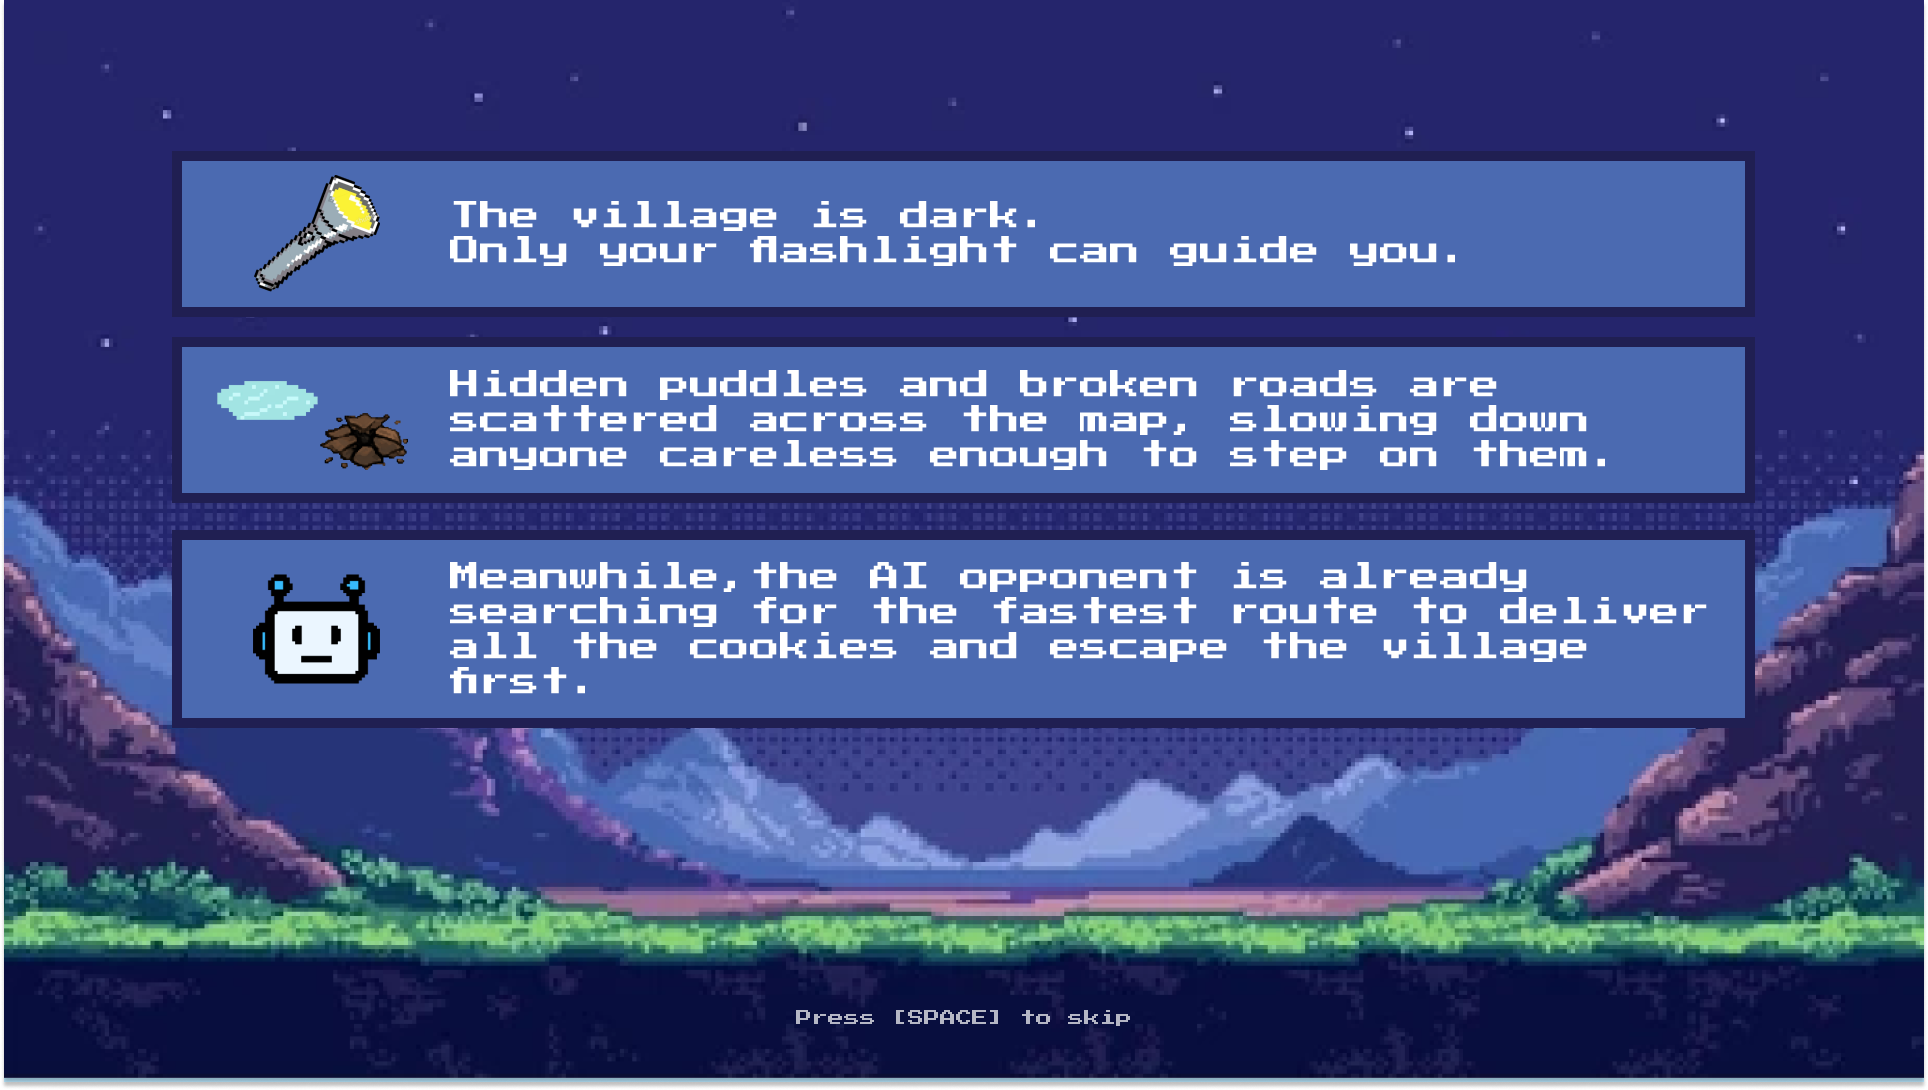
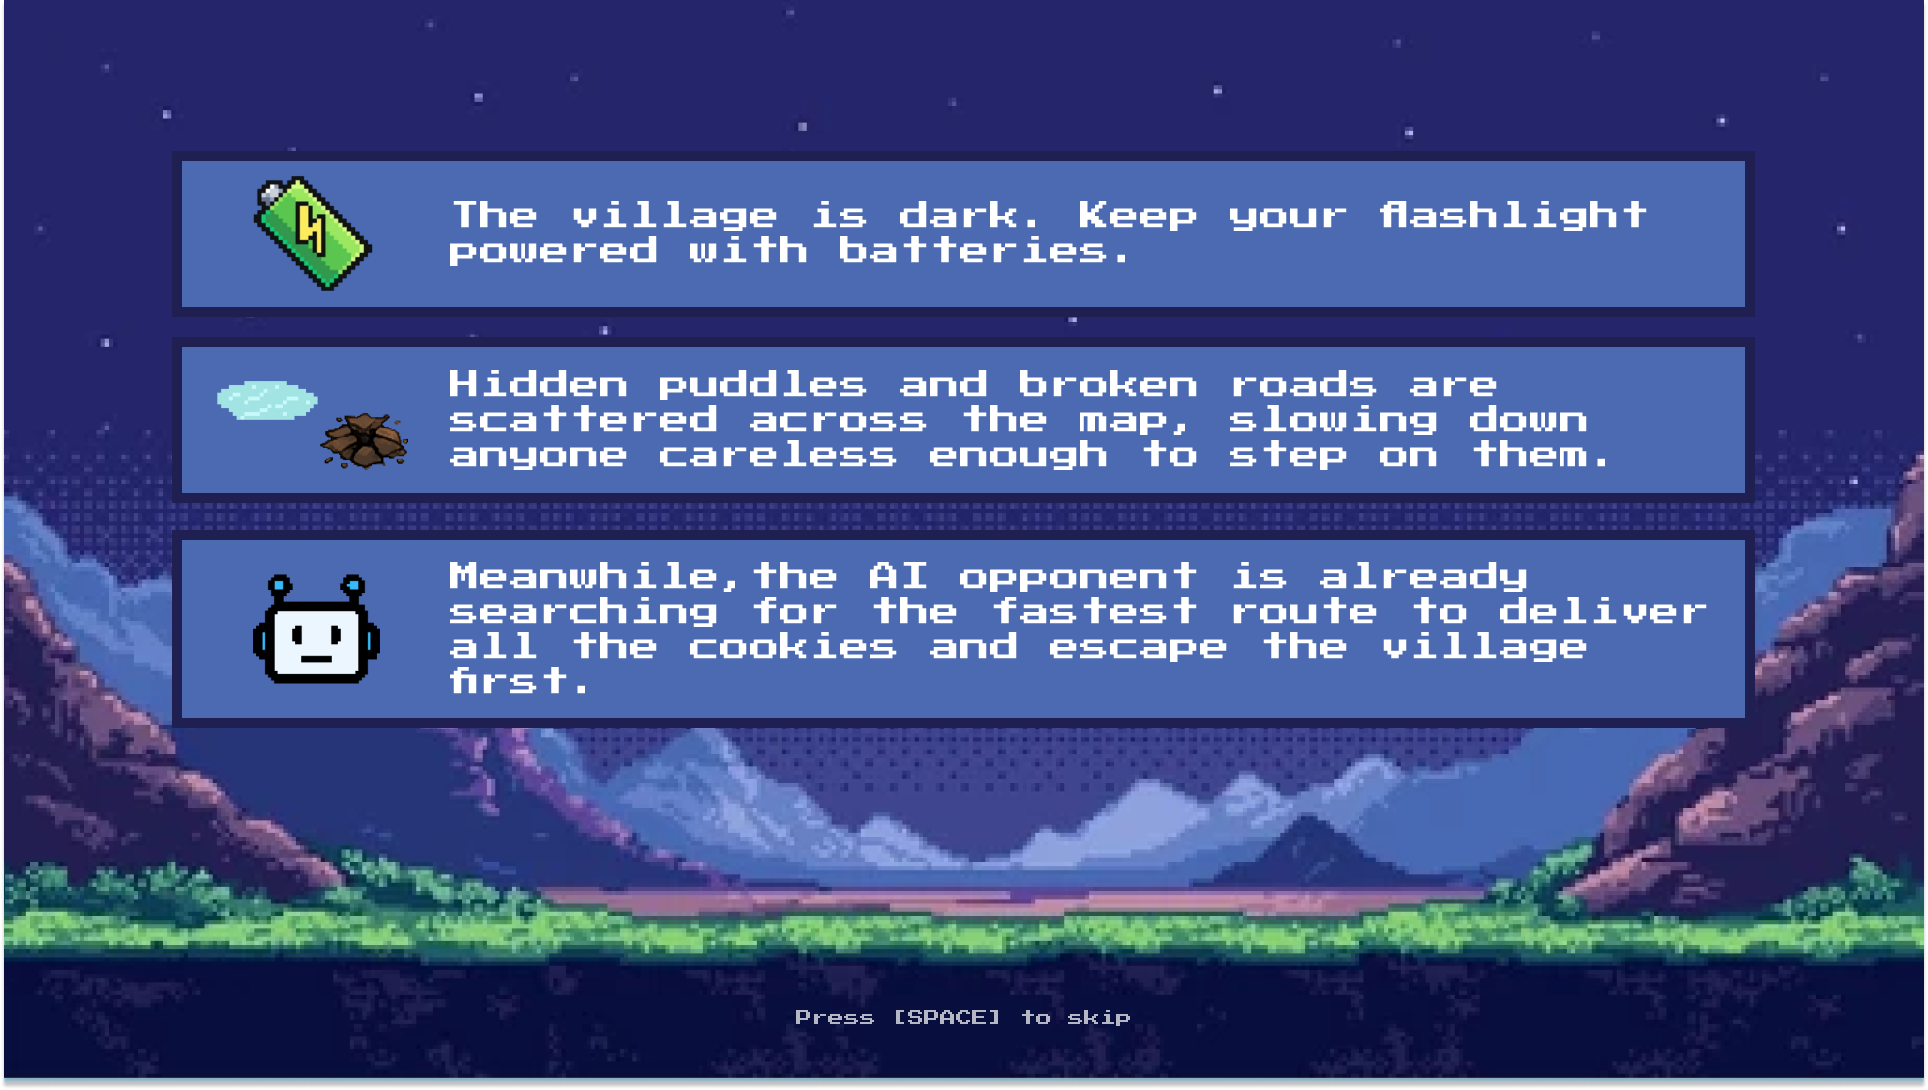
feat: implement state-driven delayed visual backtracking for players and AI
feat: implement state-driven delayed visual backtracking for players and AI

Changed region(s): [[0.1245, 0.156, 0.8714, 0.2807]]

diff --git a/core/player.py b/core/player.py
@@ -33,6 +33,9 @@ class Player:
         self.rope_durability = 0
         self.flashlight_timer = 0.0
         self.known_hazards = set()
+        self.is_backtracking = False
+        self.backtrack_target = None
+        self.backtrack_timer = 0.0
 
         # AI-specific memory
         start_key = f"{start_pos[0]},{start_pos[1]}"
@@ -93,9 +96,10 @@ class Player:
     def move(self, dx: int, dy: int, game_map: list, difficulty: str, game_state) -> list:
         """
         Attempt to move the player by (dx, dy).
-        Returns a list of event dicts for the UI to process.
+        If an obstacle is hit, records safe telemetry and flags a timed visual backtrack.
         """
-        if self.finished:
+        # Block inputs completely if the entity is already currently backing out of a constraint
+        if self.finished or getattr(self, 'is_backtracking', False):
             return []
 
         events = []
@@ -112,11 +116,14 @@ class Player:
         if tile_type == Tile.WALL:
             return []
 
-        # Move
+        # 1. SAVE TELEMETRY: Record exactly where we are standing BEFORE taking the step
+        last_safe_pos = self.pos
+
+        # Move to the new tile
         self.pos = (nx, ny)
         self.path_history.append(self.pos)
 
-        # Reveal tiles
+        # Reveal tiles matrix
         new_visible = self.tiles_in_view(difficulty)
         self.add_revealed_tiles(new_visible)
 
@@ -137,12 +144,18 @@ class Player:
                         "log_type": "penalty" if self.is_human else "ai",
                     })
             else:
+                # ---> CHANGED: Apply penalty stats, but delay the physics change over time
                 self.score -= PENALTY_PUDDLE
                 self.penalty_count["puddle"] += 1
-                self.revert_steps(REVERT_PUDDLE, game_state.get("safe_tiles"))
+                
+                # Flag the visual backtrack tracking state
+                self.is_backtracking = True
+                self.backtrack_timer = 0.20  # Duration (seconds) to pause on hazard tile
+                self.backtrack_target = last_safe_pos
+
                 events.append({
                     "type": "penalty",
-                    "msg": "Puddle! -150pts, pushed back 2 steps",
+                    "msg": "Puddle! -150pts, backtracking...",
                     "log": "You stepped on a puddle! -150pts" if self.is_human else "AI stepped on a puddle! -150pts",
                     "log_type": "penalty" if self.is_human else "ai",
                 })
@@ -161,12 +174,18 @@ class Player:
                         "log_type": "penalty" if self.is_human else "ai",
                     })
             else:
+                # ---> CHANGED: Apply penalty stats, but delay the physics change over time
                 self.score -= PENALTY_BROKEN
                 self.penalty_count["broken"] += 1
-                self.revert_steps(REVERT_BROKEN, game_state.get("safe_tiles"))
+                
+                # Flag the visual backtrack tracking state
+                self.is_backtracking = True
+                self.backtrack_timer = 0.20  # Duration (seconds) to pause on hazard tile
+                self.backtrack_target = last_safe_pos
+
                 events.append({
                     "type": "penalty",
-                    "msg": "Broken road! -200pts, pushed back 3 steps",
+                    "msg": "Broken road! -200pts, backtracking...",
                     "log": "You hit a broken road! -200pts" if self.is_human else "AI hit a broken road! -200pts",
                     "log_type": "penalty" if self.is_human else "ai",
                 })

diff --git a/main.py b/main.py
@@ -447,6 +447,9 @@ class Game:
                 if self.review_anim_index > 1:
                     self.review_anim_index -= 1
             return
+        
+        if getattr(self, 'human', None) and getattr(self.human, 'is_backtracking', False):
+            return
 
         if self.state != self.PLAYING or self.game_over:
             return
@@ -493,6 +496,31 @@ class Game:
 
         if self.shake_timer > 0:
             self.shake_timer -= dt
+
+        if hasattr(self, 'human') and getattr(self.human, 'is_backtracking', False):
+            self.human.backtrack_timer -= dt
+            if self.human.backtrack_timer <= 0:
+                # Timer complete: smoothly move position back to the safe tile
+                self.human.pos = self.human.backtrack_target
+                self.human.is_backtracking = False
+                
+                # Re-reveal the visibility matrix on the safe tile
+                difficulty = self.screen_mgr.selected_difficulty
+                self.human.add_revealed_tiles(self.human.tiles_in_view(difficulty))
+            return  # Freeze regular inputs while backing up
+
+        # Proper AI Visual Backtracking Transition 
+        if hasattr(self, 'ai_player') and getattr(self.ai_player, 'is_backtracking', False):
+            self.ai_player.backtrack_timer -= dt
+            if self.ai_player.backtrack_timer <= 0:
+                # Timer complete: smoothly move AI position back to the safe tile
+                self.ai_player.pos = self.ai_player.backtrack_target
+                self.ai_player.is_backtracking = False
+                
+                # Re-reveal AI vision matrix
+                difficulty = self.screen_mgr.selected_difficulty
+                self.ai_player.add_revealed_tiles(self.ai_player.tiles_in_view(difficulty))
+            return  # Freeze AI path steps while it finishes backing up
 
         if self.state == self.PLAYING:
             if getattr(self.human, 'flashlight_timer', 0) > 0:
